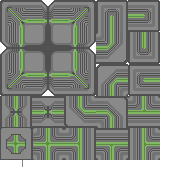
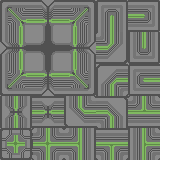
camera now follows player, fixed some graphical issues in the tileset

diff --git a/client/src/com/gearworks/Game.java b/client/src/com/gearworks/Game.java
@@ -15,6 +15,7 @@ import com.badlogic.gdx.graphics.g2d.SpriteBatch;
 import com.badlogic.gdx.graphics.glutils.ShapeRenderer;
 import com.badlogic.gdx.math.Rectangle;
 import com.badlogic.gdx.math.Vector2;
+import com.badlogic.gdx.math.Vector3;
 import com.esotericsoftware.kryo.Kryo;
 import com.esotericsoftware.kryonet.Client;
 import com.gearworks.shared.*;
@@ -88,12 +89,14 @@ public class Game implements ApplicationListener {
 		kryo.register(Message.class);
 		
 		client.start();
+		/*
 		try {
 			client.connect(5000, "10.34.23.26", 60420, 60421);
 		} catch (IOException e) {
 			e.printStackTrace();
 		}
 		client.addListener(new ClientListener());
+		*/
 		
 	}
 
@@ -127,8 +130,9 @@ public class Game implements ApplicationListener {
 			
 			sm.update();
 			camera.update();
+			followPlayer(); //Tell camera to follow Player
 		}
-		
+
 		sm.render();
 		ui.render(batch, renderer);
 		
@@ -172,6 +176,17 @@ public class Game implements ApplicationListener {
 		entities.add(ent);
 		
 		return ent;
+	}
+	
+	/* Makes the camera follow the currently selected player */
+	public void followPlayer(){
+		if(ui == null){
+			camera.position.set(new Vector3());
+		}else if(ui.activeCharacter() != null){
+			camera.position.set(camera.position.x + (ui.activeCharacter().position().x - camera.position.x )/8, 
+								camera.position.y + (ui.activeCharacter().position().y  -camera.position.y)/8, 
+								camera.position.z);
+		}
 	}
 	
 	public void destroy(Entity ent){

diff --git a/client/src/com/gearworks/UserInterface.java b/client/src/com/gearworks/UserInterface.java
@@ -66,7 +66,6 @@ public class UserInterface implements InputProcessor{
 			if(activeCharacter != null){
 				Vector2 index = game.level().indexFromPosition(activeCharacter.position());
 				activeCharacter.move((int)index.x - 1, (int)index.y);
-				game.level().calculateLighting(game.player());
 			}
 		}
 		
@@ -119,6 +118,7 @@ public class UserInterface implements InputProcessor{
 
 	@Override
 	public boolean scrolled(int amount) {
+		game.camera().zoom += .1 * amount;
 		return false;
 	}
 	
@@ -128,5 +128,6 @@ public class UserInterface implements InputProcessor{
 	}
 	
 	public void activeCharacter(Character c){ activeCharacter = c; }
+	public Character activeCharacter(){ return activeCharacter; }
 
 }

diff --git a/client/src/com/gearworks/state/GameState.java b/client/src/com/gearworks/state/GameState.java
@@ -22,6 +22,8 @@ public class GameState implements State {
 
 	@Override
 	public void render(Game game) {
+		game.batch().setProjectionMatrix(game.camera().combined);
+		
 		game.level().render(game.renderer());
 		
 		for(Entity ent : game.entities()){
@@ -40,7 +42,7 @@ public class GameState implements State {
 	@Override
 	public void onEnter(Game game) {		
 		game.level(new Level(game));
-		game.level().load("assets/map1.tmx");
+		game.level().load("assets/map2.tmx");
 		
 		Player pl = new Player(0, Player.Team.Sneeker);
 		pl.spawnCharacters(game);

diff --git a/shared/com/gearworks/shared/Character.java b/shared/com/gearworks/shared/Character.java
@@ -45,6 +45,7 @@ public class Character extends Entity {
 	@Override
 	public void render(SpriteBatch b, ShapeRenderer r){
 		b.begin();
+		
 			b.draw(myTexture, position().x, position().y);
 		b.end();
 	}
